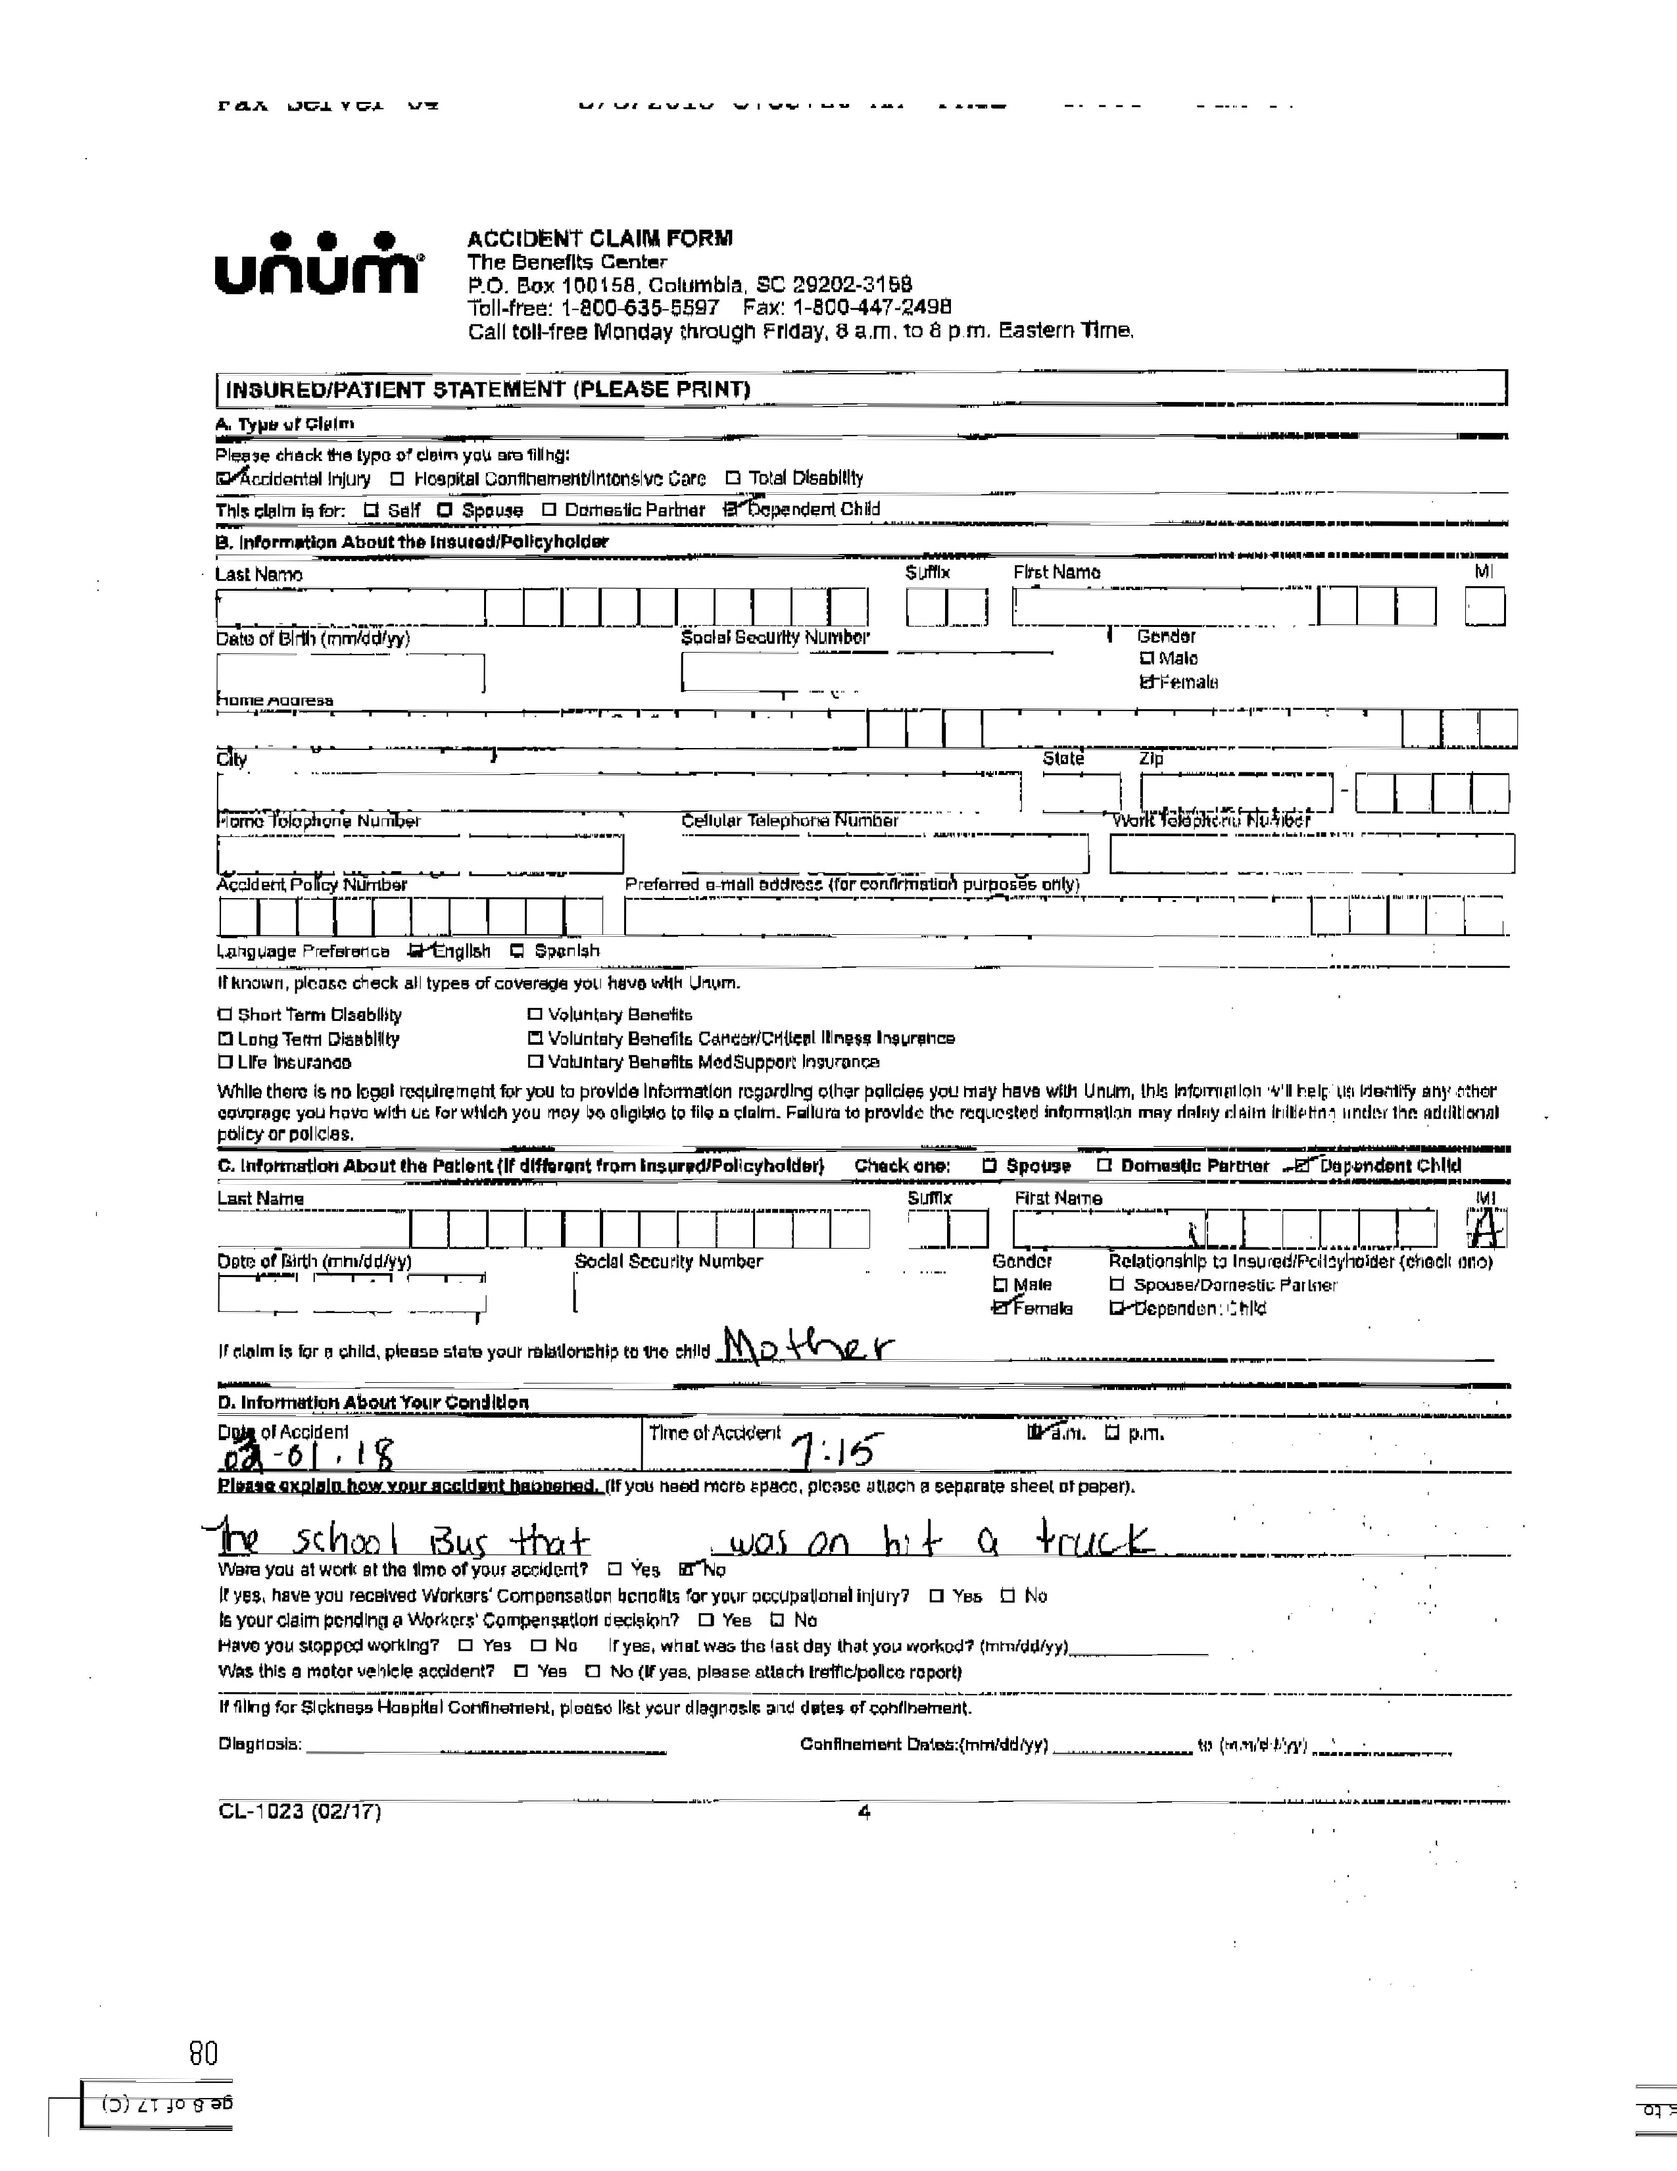
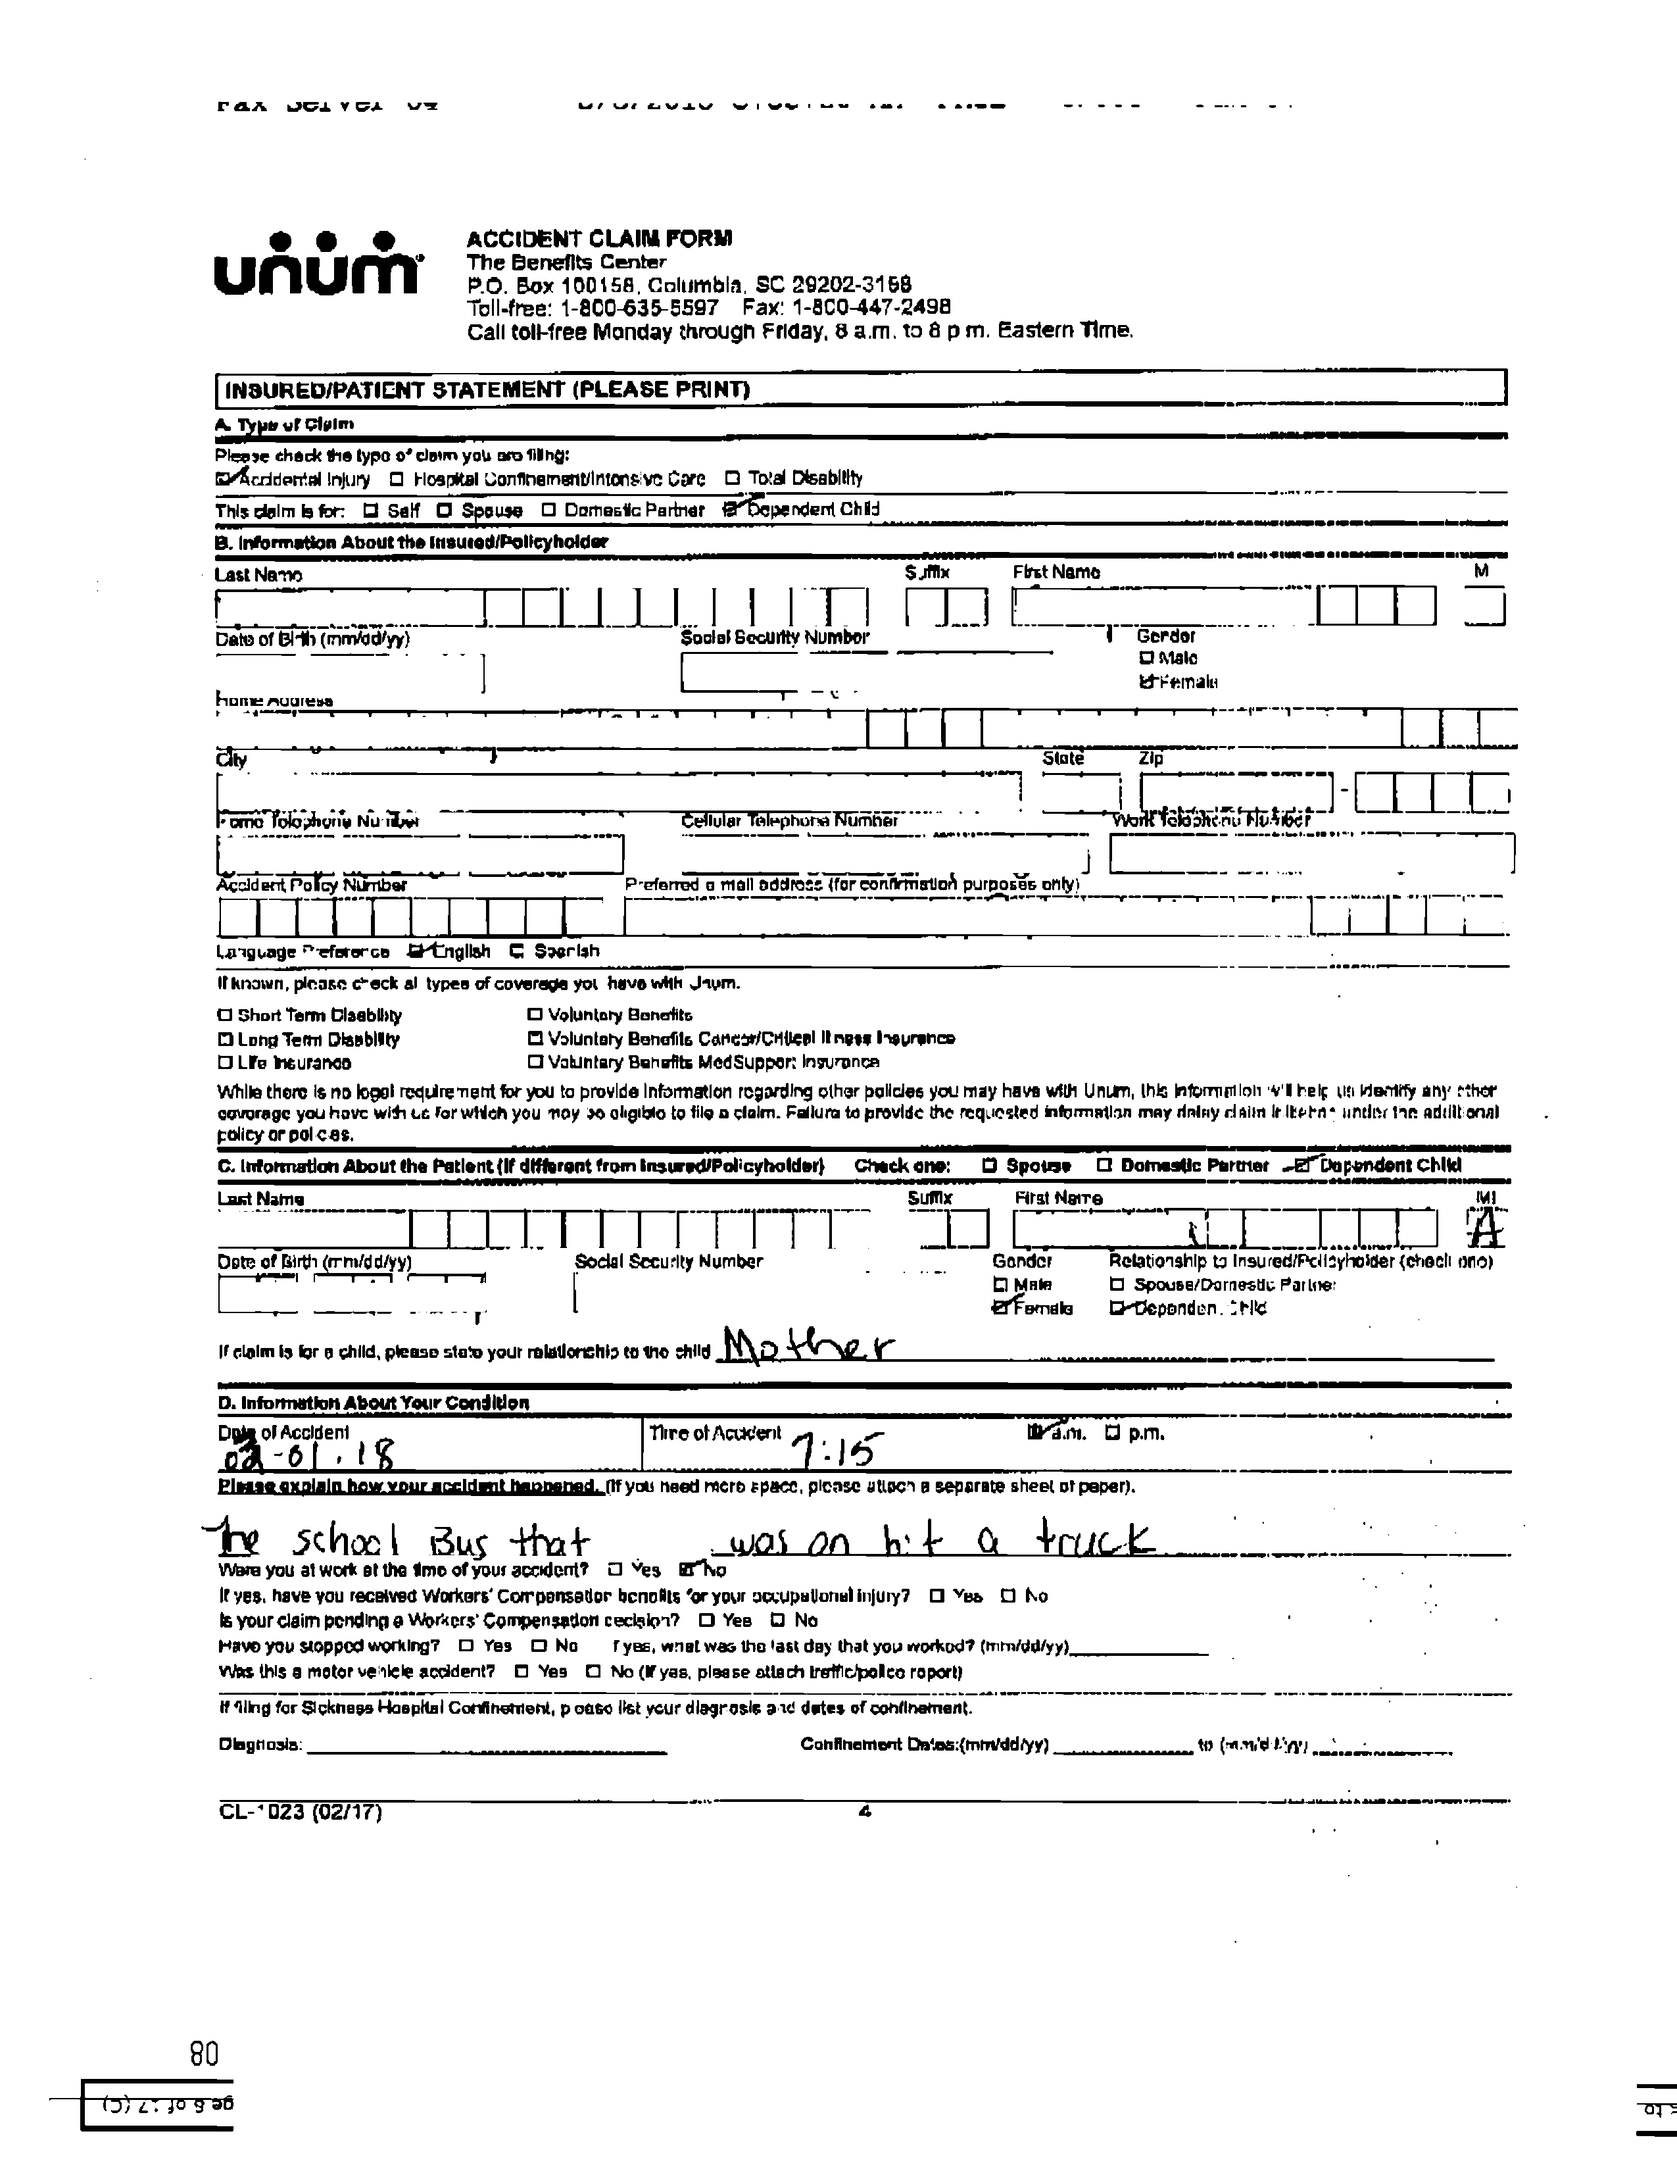
Gaussian blur as it's faster and almost same result

diff --git a/preprocess.py b/preprocess.py
@@ -128,7 +128,8 @@ def preprocess(imgfile, remove_lines=False):
     image = cv2.imread(imgfile)
     
     # Non-local Means (NLM)
-    denoised = cv2.fastNlMeansDenoising(image, None,h=10,templateWindowSize=7,searchWindowSize=21) 
+    #denoised = cv2.fastNlMeansDenoising(image, None,h=10,templateWindowSize=7,searchWindowSize=21) 
+    denoised = cv2.GaussianBlur(image,(5,5),0)
     
     # Transform source image to gray if it is not already
     if len(denoised.shape) != 2:
